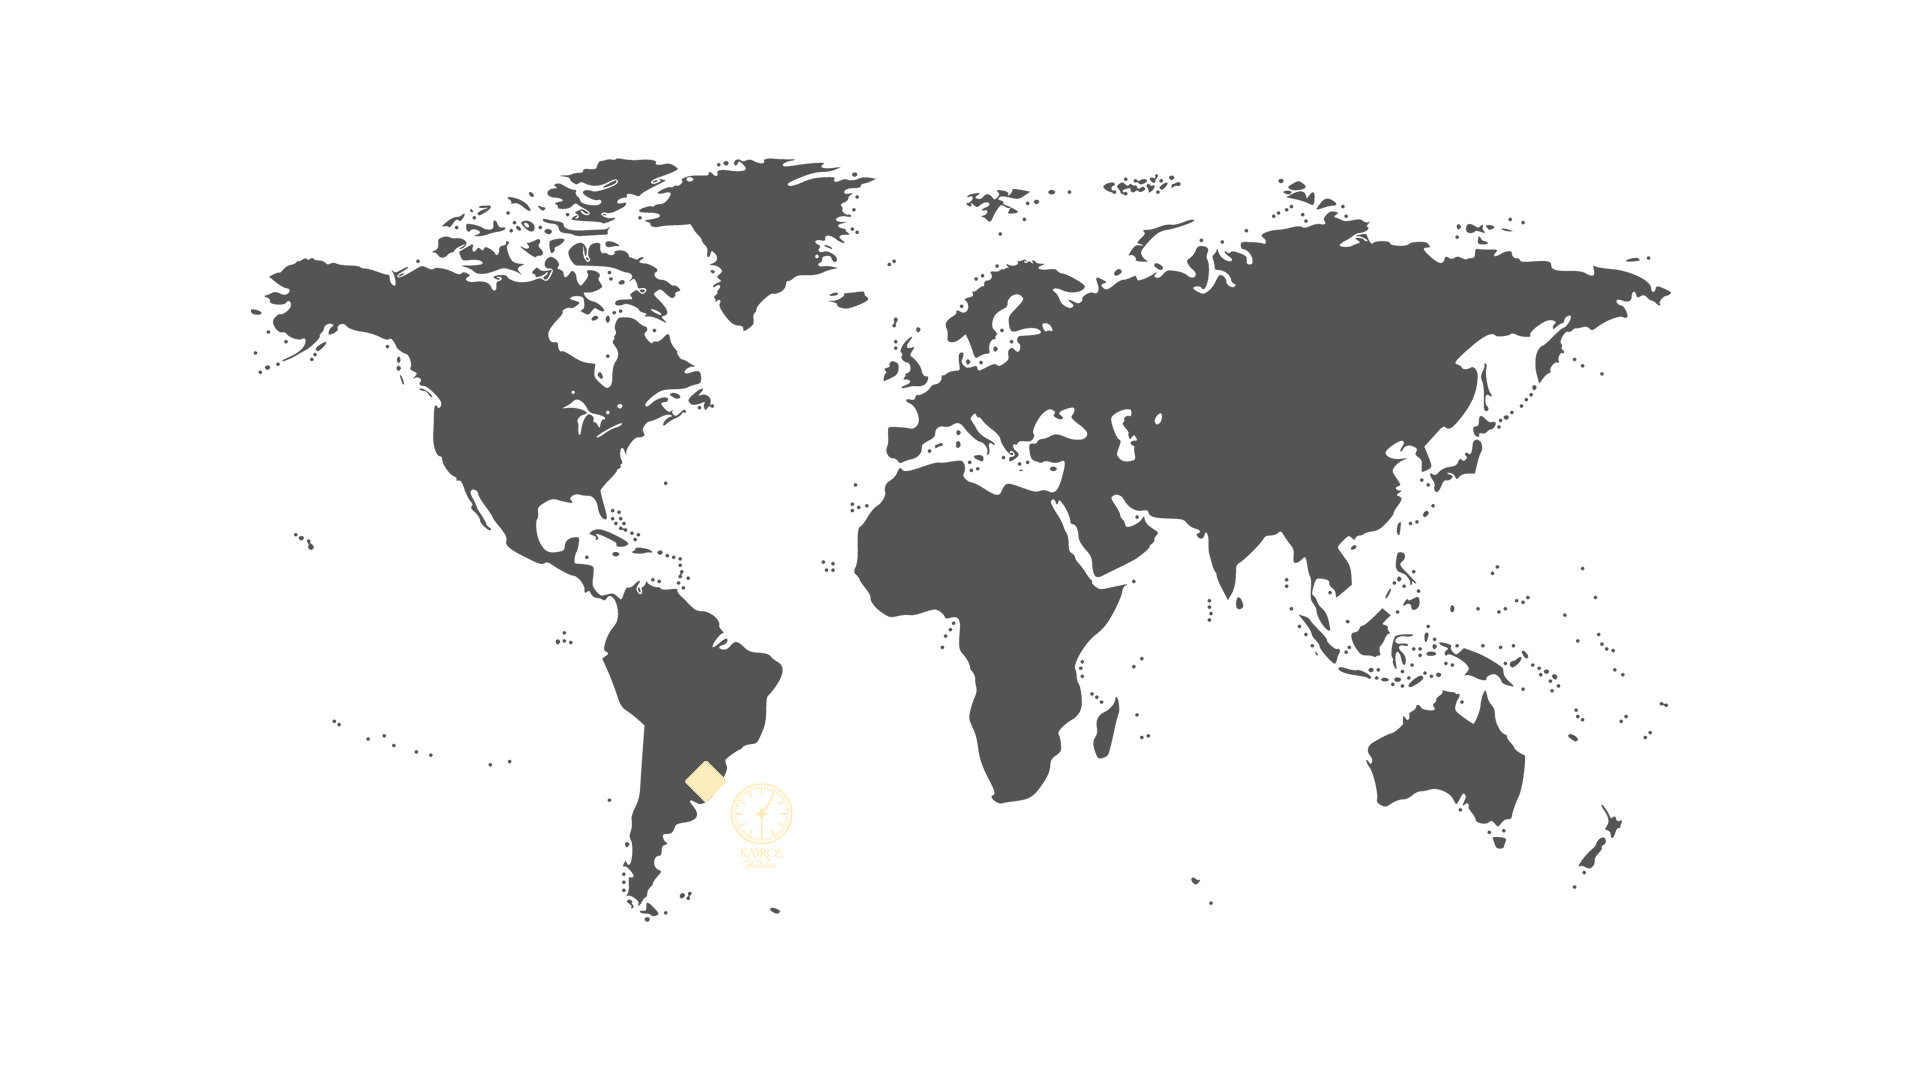
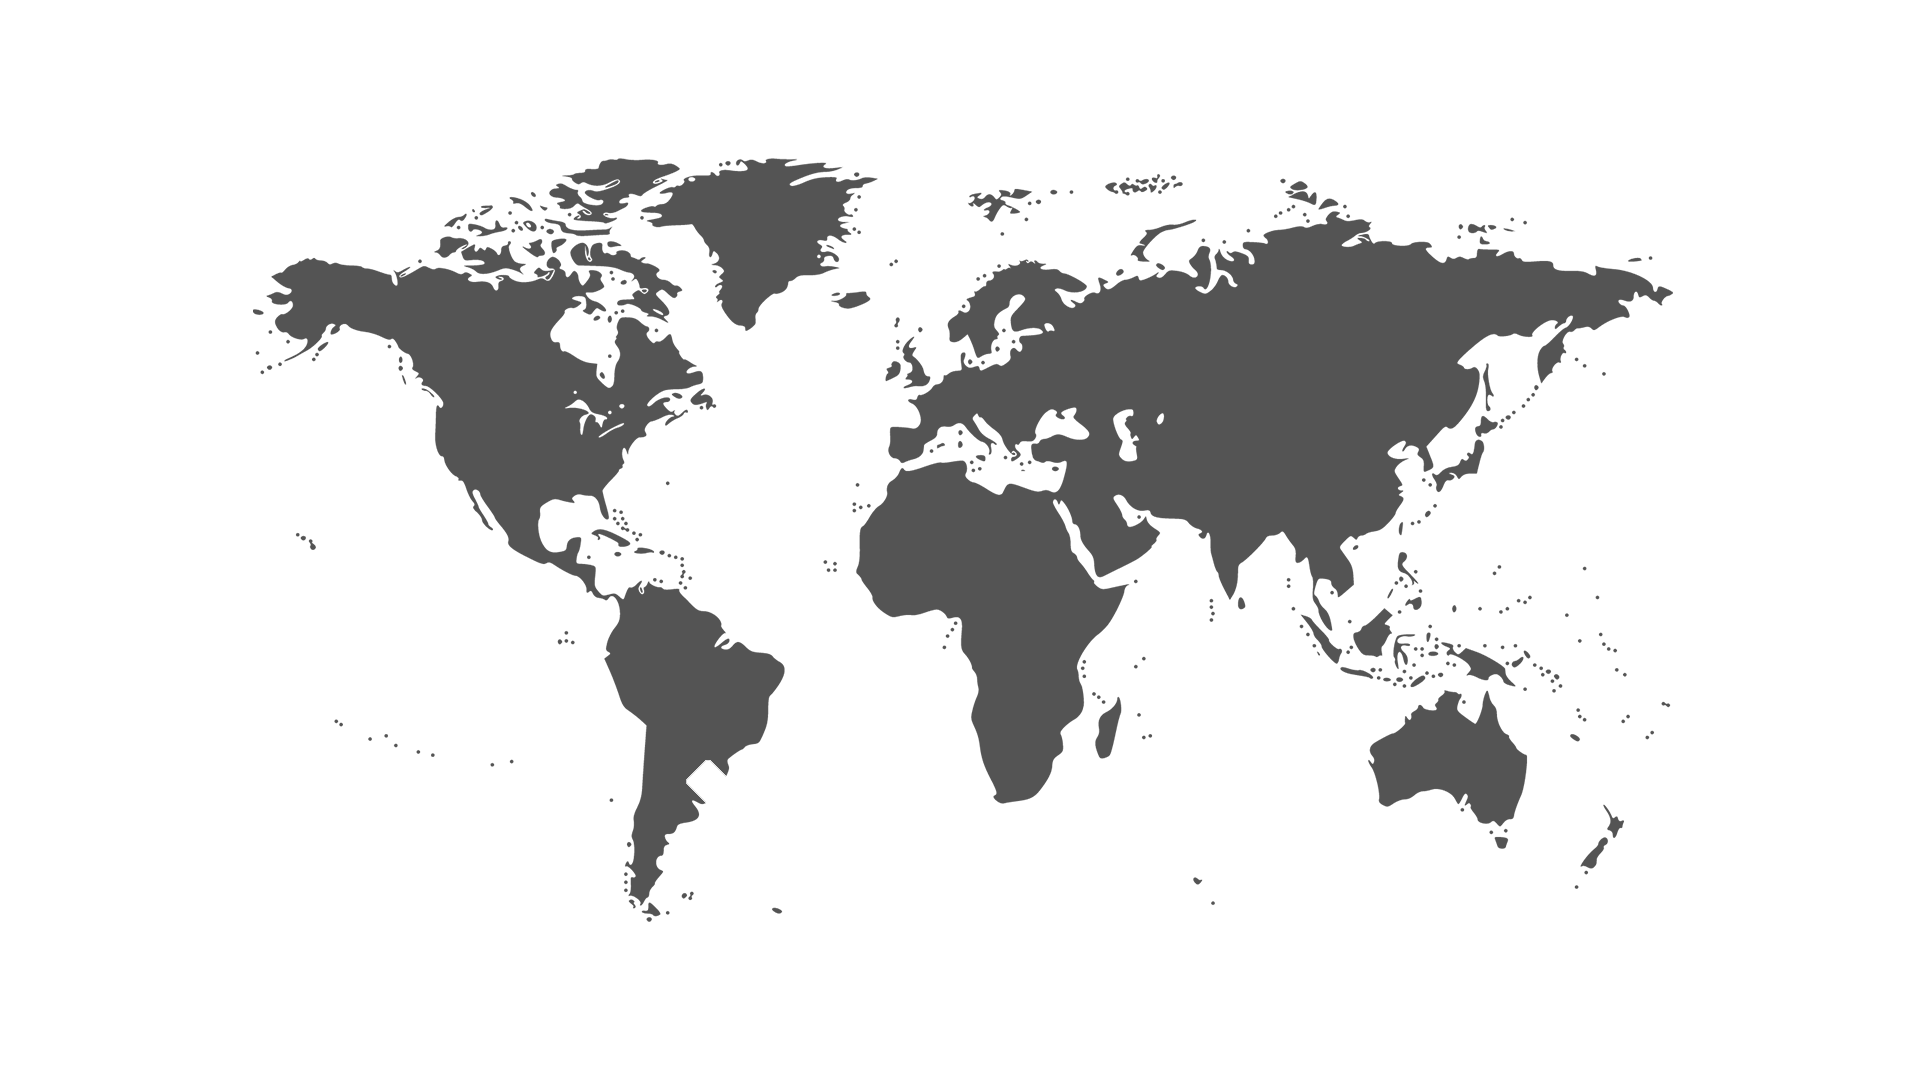
map larger and point color changed

diff --git a/src/components/Footer.css b/src/components/Footer.css
@@ -76,7 +76,7 @@
   font-size: 15px;
 }
 .footer-ubication {
-  width: 300px;
+  width: 350px;
   padding-bottom: 3rem;
 }
 
